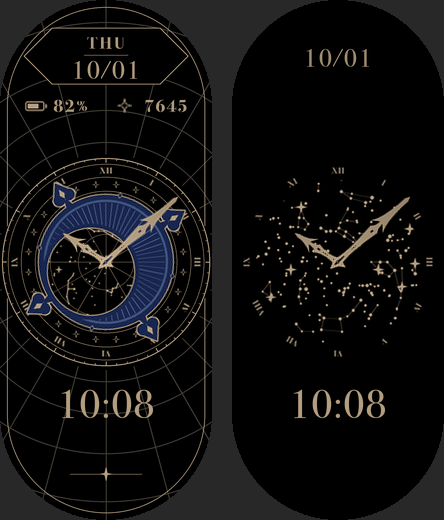
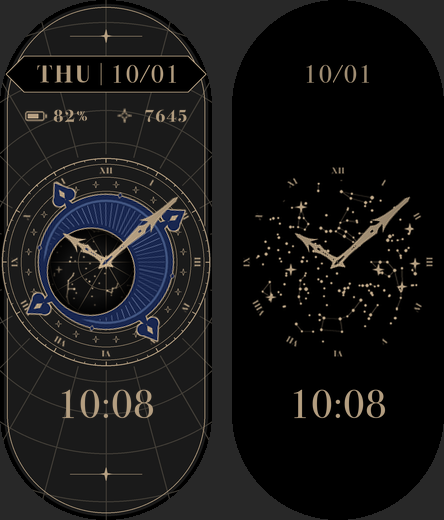
feat: move date to one plate line and add window shadow

diff --git a/build.py b/build.py
@@ -27,7 +27,7 @@ RAY_STEP = 6  # degrees between hairlines
 CRESCENT_GROOVE = True  # lighter band along the crescent's outer edge
 GRID = (66, 62, 55)
 AOD_DIM = 0.9
-PANEL = BLACK  # capsule panel colour; CHAR restores the reference charcoal
+PANEL = CHAR  # capsule panel colour; BLACK gives a pure black face
 
 FONT = "/System/Library/Fonts/Supplemental/Bodoni 72.ttc"
 BOOK, BOLD = 0, 2
@@ -52,6 +52,7 @@ CRESCENT_R = 68
 HOLE_R = 44
 HOLE_SHIFT = 18  # hole sits near the rim (6px wall) ...
 HOLE_DIR = 45  # ... under the top-right spade
+WINDOW_SHADOW = 18  # band px of inner shadow inside the window
 MAX_HAND_R = 106  # pointer sprites are squares centred on the pivot; keep them within the 212px width
 
 
@@ -102,7 +103,8 @@ def font(size: float, weight: int = BOOK) -> ImageFont.FreeTypeFont:
     return ImageFont.truetype(FONT, round(size * SS), index=weight)
 
 
-def text_sprite(text: str, size: float, cell=None, color=GOLD, weight=BOOK, tracking: float = 0) -> Image.Image:
+def text_sprite(text: str, size: float, cell=None, color=GOLD, weight=BOOK, tracking: float = 0,
+                align: str = "center") -> Image.Image:
     f = font(size, weight)
     probe = Image.new("L", (round(size * SS * (len(text) + 2)), round(size * SS * 2)))
     draw = ImageDraw.Draw(probe)
@@ -116,7 +118,8 @@ def text_sprite(text: str, size: float, cell=None, color=GOLD, weight=BOOK, trac
     w = cell[0] * SS if cell else ink.width + 2 * SS
     h = cell[1] * SS if cell else ink.height + 2 * SS
     mask = Image.new("L", (w, h))
-    mask.paste(ink, ((w - ink.width) // 2, (h - ink.height) // 2))
+    x = w - ink.width - SS if align == "right" else (w - ink.width) // 2
+    mask.paste(ink, (x, (h - ink.height) // 2))
     mask = mask.resize((w // SS, h // SS), Image.LANCZOS)
     out = Image.new("RGBA", mask.size, color + (0,))
     out.putalpha(mask)
@@ -251,18 +254,21 @@ def background() -> Image.Image:
     sparkle(pen, cx, cy, 7, GOLD, fill=GOLD, inner=0.38)
     dial(pen, cx, cy, GOLD)
     # Top info plate, and a star finial under the time
-    plate(pen, 106, 56, 164, 56)
-    pen.line([(70, 474), (142, 474)], GOLD, 0.6)
-    sparkle(pen, 106, 474, 6.5, GOLD, fill=GOLD, inner=0.25)
+    # Plate sits below the top arc, where the capsule is wide enough for one line
+    # Wider than the gold frame: side tips stop ~5px short of the screen edge (half-width ~101 here)
+    plate(pen, 106, 74, 200, 36, divider_x=101)
+    for y in (36, 474):  # star finials top and bottom
+        pen.line([(70, y), (142, y)], GOLD, 0.6)
+        sparkle(pen, 106, y, 6.5, GOLD, fill=GOLD, inner=0.25)
     return pen.done()
 
 
-def plate(pen: Pen, cx, cy, w, h, color=GOLD):
-    """Elongated hexagon label plate from the reference header."""
+def plate(pen: Pen, cx, cy, w, h, divider_x, color=GOLD):
+    """Elongated hexagon label plate from the reference header, with a divider between weekday and date."""
     pts = [(cx - w / 2, cy), (cx - w / 2 + h / 2, cy - h / 2), (cx + w / 2 - h / 2, cy - h / 2),
            (cx + w / 2, cy), (cx + w / 2 - h / 2, cy + h / 2), (cx - w / 2 + h / 2, cy + h / 2)]
     pen.poly(pts, fill=BLACK, outline=color, width=0.8)
-    pen.line([(cx - 22, cy - 1), (cx + 22, cy - 1)], color, 0.6)  # rule between weekday and date
+    pen.line([(divider_x, cy - h / 2 + 7), (divider_x, cy + h / 2 - 7)], color, 0.7)
 
 
 def spade_masks(size: int, c: float, ang: float) -> tuple[np.ndarray, np.ndarray]:
@@ -313,6 +319,13 @@ def crescent_sprite() -> Image.Image:
     body.img.alpha_composite(Image.fromarray(deco_a.astype(np.uint8), "RGBA"))
     a = np.asarray(body.img).astype(float)
     a[..., 3] *= 1 - np.asarray(hole).astype(float) / 255
+    # Inner shadow just inside the window, as if the crescent sits above the star chart
+    yy, xx = np.mgrid[: size * SS, : size * SS] / SS
+    depth = HOLE_R - np.hypot(xx - hx, yy - hy)
+    shade = np.where(depth > 0, np.clip(1 - depth / WINDOW_SHADOW, 0, 1) ** 0.8, 0) * 255
+    # The window was cut via alpha only, so its RGB is still navy: shadow pixels must be set to black
+    a[..., :3] *= (depth <= 0)[..., None]
+    a[..., 3] = np.maximum(a[..., 3], shade)
     body.img = Image.fromarray(a.astype(np.uint8), "RGBA")
     body.d = ImageDraw.Draw(body.img)
     body.circle(c, c, CRESCENT_R, GOLD, 0.9)
@@ -423,7 +436,7 @@ def build() -> None:
     dim = tuple(int(v * AOD_DIM) for v in GOLD)
     save(background(), "bg")
 
-    weekdays = [save(text_sprite(d, 17, (54, 20), weight=BOLD, tracking=2.2), f"wd-{d.lower()}")
+    weekdays = [save(text_sprite(d, 25, (64, 28), weight=BOLD, tracking=2.4, align="right"), f"wd-{d.lower()}")
                 for d in ["SUN", "MON", "TUE", "WED", "THU", "FRI", "SAT"]]
     date_digits = digits("d", 25, (15, 26))
     slash = save(text_sprite("/", 25, (10, 26)), "d-slash")
@@ -449,16 +462,16 @@ def build() -> None:
 
     normal = [
         image(0, 0, "bg"),
-        # Two-row plate centred on x=106: weekday (54px) above "10/01" (70px)
-        {"type": "widge_imagelist", "x": 79, "y": 33, "dataSrc": "2012", "imageList": weekdays,
+        # One-line plate, both 25px: weekday right-aligned to the divider (x=101), "10/01" after it, 13px either side
+        {"type": "widge_imagelist", "x": 28, "y": 60, "dataSrc": "2012", "imageList": weekdays,
          "imageIndexList": list(range(7))},
-        number(71, 57, "1012", date_digits, 2, "left"),
-        image(101, 57, slash),
-        number(111, 57, "1812", date_digits, 2, "left"),
-        image(24, 99, bat_icon),
-        number(53, 96, "0841", small, 3, "left", zero=False, unit=pct),
-        image(117, 98, step_icon),
-        number(188, 96, "0821", small, 5, "right", zero=False),
+        number(110, 61, "1012", date_digits, 2, "left"),
+        image(140, 61, slash),
+        number(150, 61, "1812", date_digits, 2, "left"),
+        image(24, 109, bat_icon),
+        number(53, 106, "0841", small, 3, "left", zero=False, unit=pct),
+        image(117, 108, step_icon),
+        number(188, 106, "0821", small, 5, "right", zero=False),
         *clock(time_digits, colon),
         pointer("crescent", crescent_sprite(), "1811", "simple", 60, 3600),
         pointer("hour", drawn_hand("hour"), "0811", "rotate", 24, 7200),
@@ -473,10 +486,10 @@ def build() -> None:
     aod_colon = save(text_sprite(":", 40, (10, 32), GOLD), "at-colon", aod=True)
     aod = [
         image(0, 0, "aod-bg"),
-        # "10/01" is 70px wide, centred on x=106
-        number(71, 45, "1012", aod_digits, 2, "left"),
-        image(101, 45, aod_slash),
-        number(111, 45, "1812", aod_digits, 2, "left"),
+        # "10/01" is 70px wide, centred on x=106, level with the normal face's plate
+        number(71, 61, "1012", aod_digits, 2, "left"),
+        image(101, 61, aod_slash),
+        number(111, 61, "1812", aod_digits, 2, "left"),
         *clock(aod_time, aod_colon),
         pointer("aod-hour", drawn_hand("hour", dim, BLACK), "0811", "rotate", 24, 7200, aod=True),
         pointer("aod-minute", drawn_hand("minute", dim, BLACK), "1011", "rotate", 60, 3600, aod=True),

diff --git a/README.md b/README.md
@@ -5,7 +5,7 @@ A planisphere-style watch face for the **Xiaomi Smart Band 11** (212×520), draw
 ![Normal and always-on faces](docs/preview.png)
 
 - A navy crescent with four spades sweeps once a minute as the seconds hand; its eccentric window reveals a real north-polar star map like a rotating planisphere.
-- Roman numeral ring, sparkle band and tick ring in flat hairline gold on black.
+- Roman numeral ring, sparkle band and tick ring in flat hairline gold on a charcoal capsule.
 - Weekday / date plate, battery and steps, and a digital time under the dial.
 - Separate always-on (AOD) face: full star field, numerals, hands, date and time on pure black.
 
